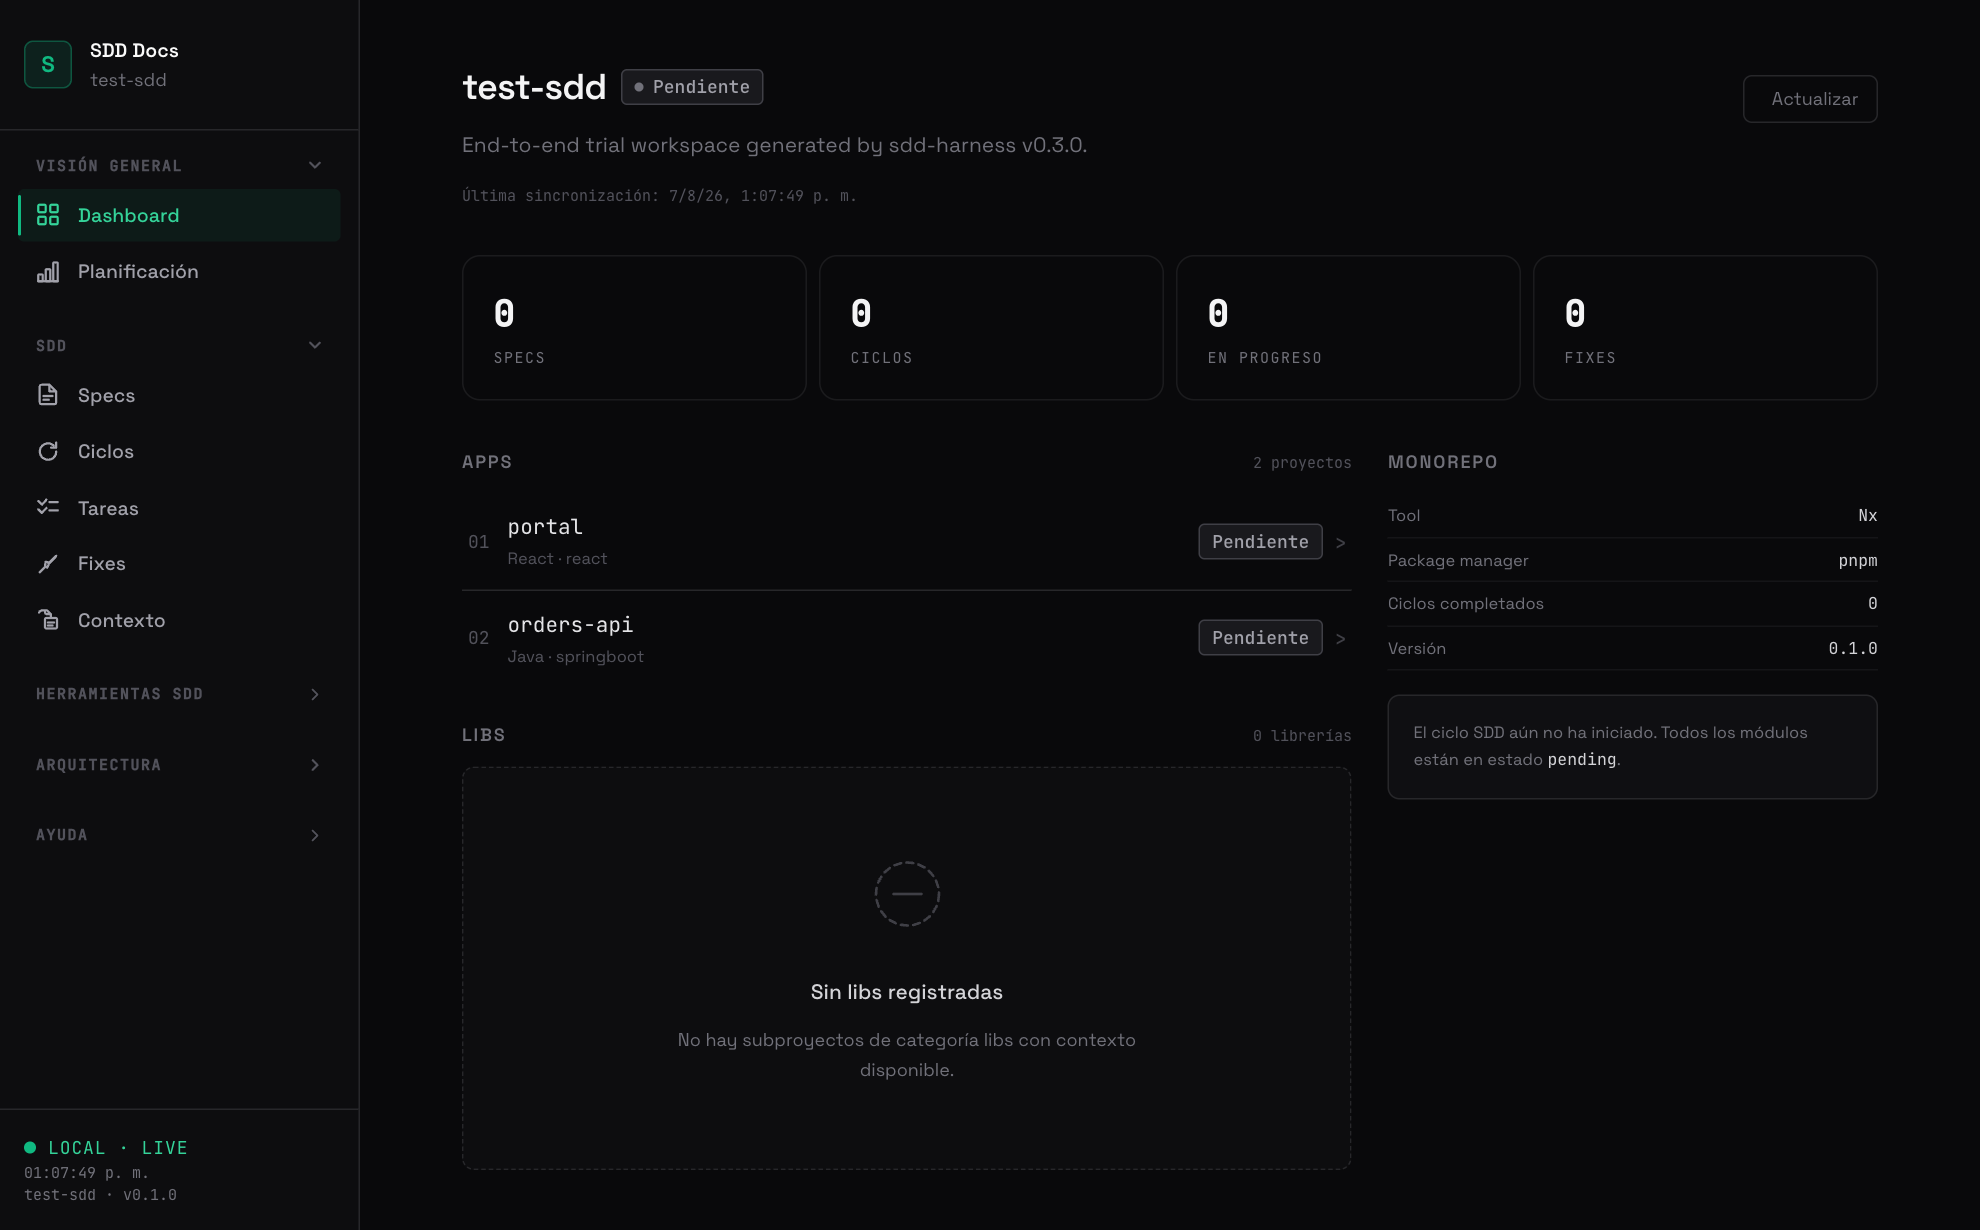
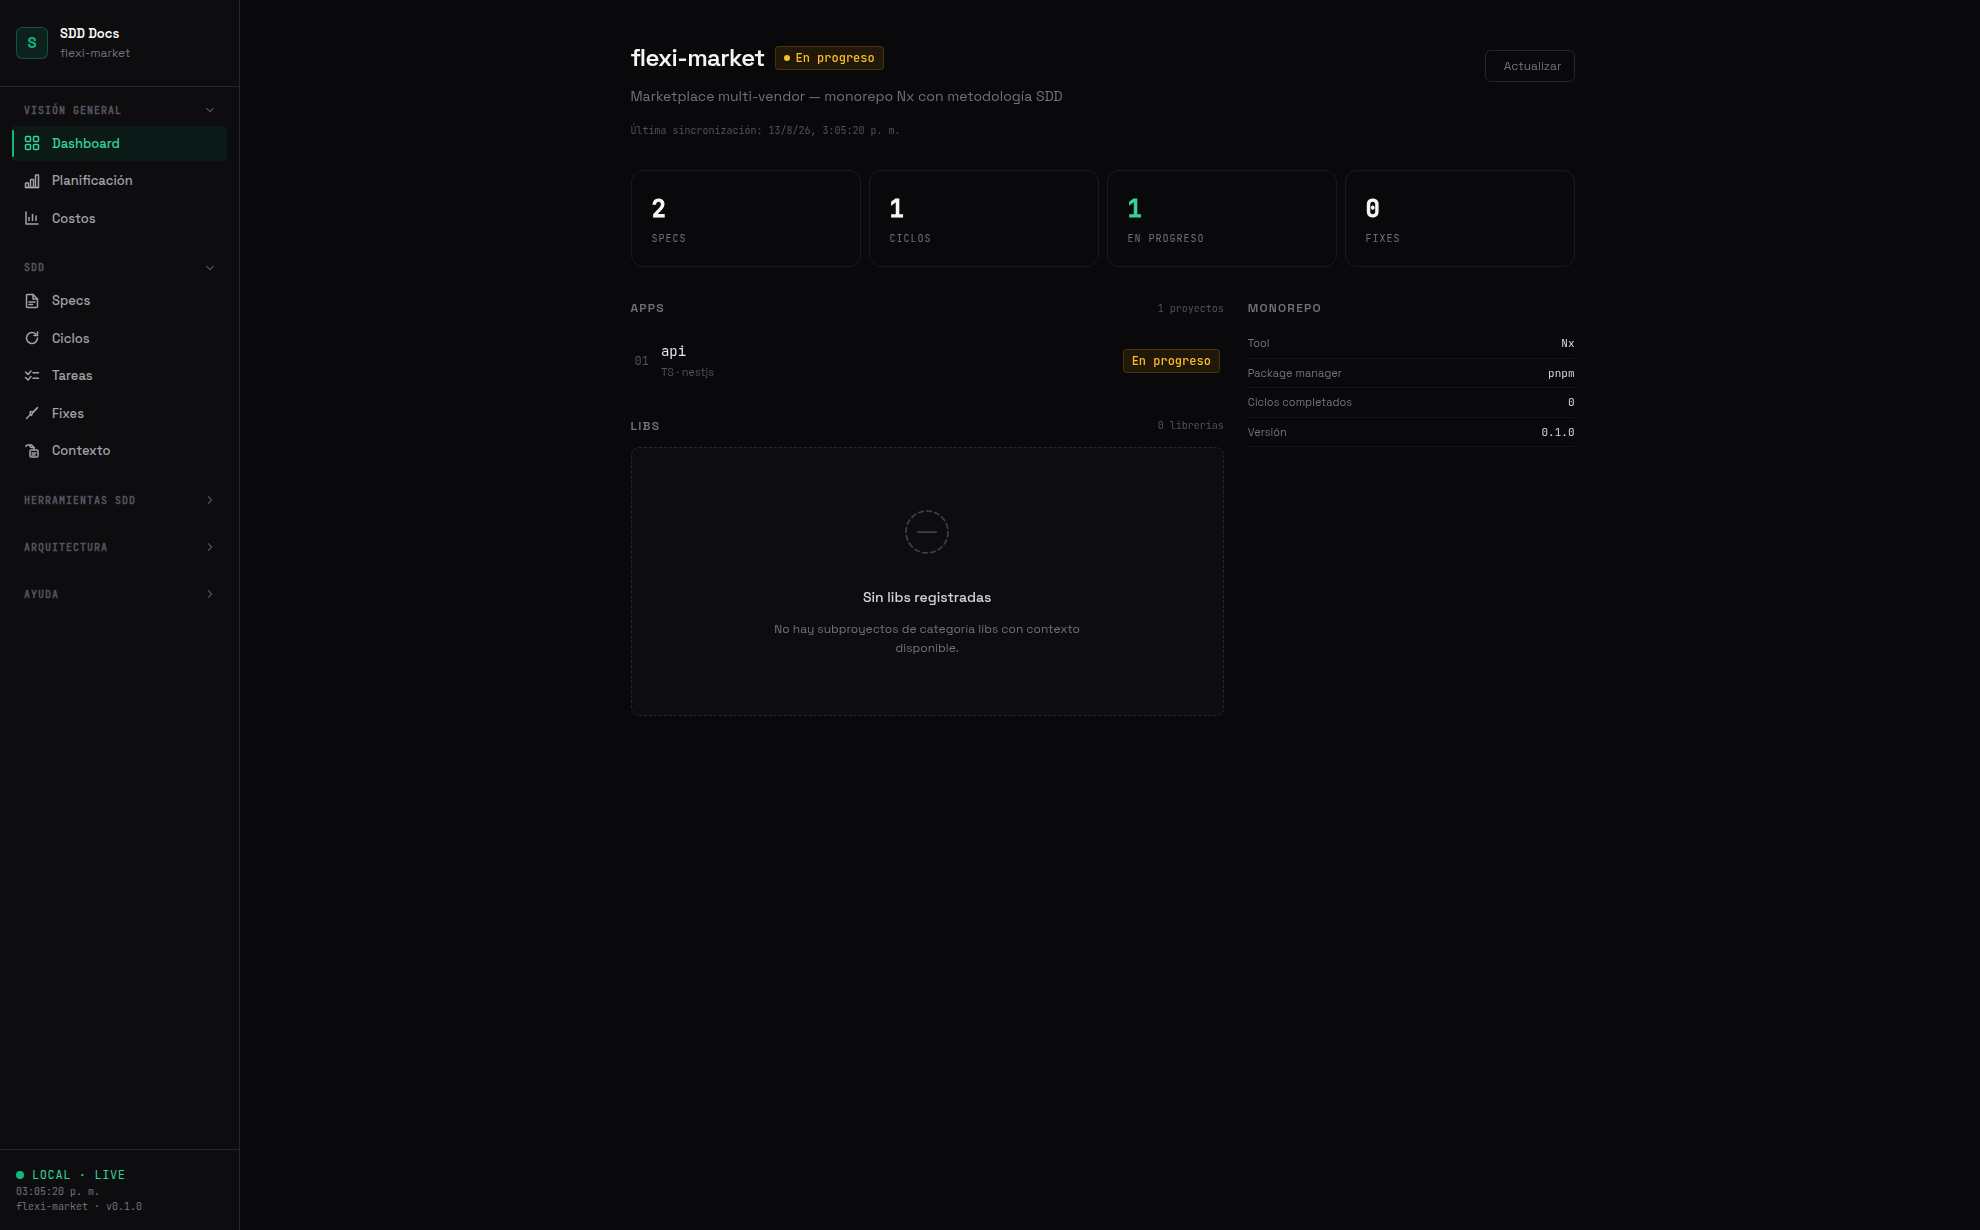
docs(site,kit): clear kit-update guide + refreshed viewer screenshots
- site: 'Actualizar el kit — sin miedo' panel in the portable-kit section
  (command + ownership semantics + *.new merge flow, as verified by the
  0.3.1→0.4.0 live rehearsal)
- kit INSTALL.md: update-first guide with the same ownership table; catalog
  counts refreshed (18 skills, memory/, pricing.json)
- sdd:docs gallery: all six screenshots recaptured from the current viewer
  (desktop layout, Costos in the nav, flexi-market demo data); Costos is the
  featured shot

Claude-Session: https://claude.ai/code/session_0115oC1kTPzAf1KABVkMgdX1

diff --git a/apps/documentation/src/App.tsx b/apps/documentation/src/App.tsx
@@ -793,7 +793,7 @@ function KitSection() {
             className="group mt-5 inline-flex items-center gap-2 text-[13.5px] text-zinc-300 transition-colors hover:text-accent-300"
           >
             Conocé <code className="text-accent-300">sdd:docs</code> a fondo —
-            capturas reales y las 15 vistas
+            capturas reales y las 16 vistas
             <ArrowRightIcon
               size={14}
               className="transition-transform group-hover:translate-x-0.5"
@@ -801,6 +801,61 @@ function KitSection() {
           </a>
         </div>
       </div>
+
+      <motion.div
+        initial={{ opacity: 0, y: 18 }}
+        whileInView={{ opacity: 1, y: 0 }}
+        viewport={{ once: true, margin: '-40px' }}
+        transition={{ type: 'spring', stiffness: 90, damping: 18 }}
+        className="mt-14 rounded-2xl border hairline bg-ink-900/50 p-6 md:p-8"
+      >
+        <p className="mb-2 font-mono text-[11px] uppercase tracking-[0.22em] text-accent-400">
+          Actualizar el kit — sin miedo
+        </p>
+        <h3 className="max-w-[40ch] text-xl font-medium tracking-tight text-zinc-100">
+          Un comando trae todo lo nuevo. Lo tuyo no se toca.
+        </h3>
+        <div className="mt-6 grid gap-8 md:grid-cols-[minmax(0,5fr)_minmax(0,6fr)]">
+          <div>
+            <CopyCommand command="npx @e-burgos/sdd-harness@latest update sdd" />
+            <p className="mt-4 max-w-[48ch] text-[13.5px] leading-relaxed text-zinc-400">
+              El update se gobierna por los hashes de{' '}
+              <code className="text-zinc-300">sdd/kit.json</code>: sabe
+              exactamente qué archivo es del kit, cuál es tuyo y cuál
+              modificaste. Al cierre regenera el catálogo, refresca los
+              symlinks y corre <code className="text-zinc-300">sdd:validate</code>.
+            </p>
+          </div>
+          <div className="divide-y divide-zinc-800/60 border-y hairline font-mono text-[12px]">
+            {[
+              {
+                k: 'Tus datos',
+                v: 'specs, ciclos, fixes, contextos, memoria — jamás se tocan',
+              },
+              {
+                k: 'Kit sin modificar',
+                v: 'se reemplaza por la versión nueva, silenciosamente',
+              },
+              {
+                k: 'Archivos nuevos',
+                v: 'se agregan solos (memoria, pricing, skills nuevas…)',
+              },
+              {
+                k: 'Lo que editaste',
+                v: 'queda intacto; la versión nueva aterriza al lado como *.new para fundir a mano',
+              },
+            ].map((row) => (
+              <div
+                key={row.k}
+                className="grid grid-cols-[130px_1fr] gap-4 py-3 sm:grid-cols-[170px_1fr]"
+              >
+                <span className="text-accent-300">{row.k}</span>
+                <span className="leading-relaxed text-zinc-400">{row.v}</span>
+              </div>
+            ))}
+          </div>
+        </div>
+      </motion.div>
     </Section>
   );
 }

diff --git a/apps/cli/templates/sdd/INSTALL.md b/apps/cli/templates/sdd/INSTALL.md
@@ -1,3 +1,28 @@
+# Instalación y actualización del framework SDD
+
+## Actualizar un kit ya instalado (lo más común)
+
+Si este repo ya tiene `sdd/` y salió una versión nueva del kit, **no hace falta nada
+de lo que sigue** — un solo comando actualiza preservando todo lo tuyo:
+
+```bash
+npx @e-burgos/sdd-harness@latest update sdd
+```
+
+Qué hace, gobernado por los hashes de `sdd/kit.json`:
+
+| Tipo de archivo | Qué pasa en el update |
+| --- | --- |
+| **Tus datos** — `global.json`, specs, ciclos, fixes, contextos, `memory/journal/` | **Jamás se tocan** |
+| Archivos del kit **sin modificar** localmente (skills, agentes, prompts, schemas, scripts, visor) | Se reemplazan por la versión nueva |
+| Archivos del kit **nuevos** en esta versión | Se agregan solos |
+| Archivos del kit que **vos editaste** (típico: `dual-harness/AGENTS.md`/`CLAUDE.md`) | Tu versión queda intacta; la nueva aterriza al lado como `*.new` para que fundas a mano lo que te interese |
+
+Al cierre regenera el catálogo, refresca los symlinks y corre `sdd:validate`. Si el
+update lista conflictos `*.new`, fundilos (o pedíselo a tu agente) y borrá los `.new`.
+
+---
+
 # Instalación del framework SDD en un repo nuevo
 
 Esta carpeta es una copia **limpia y portable** del sistema SDD: sin specs, fixes,
@@ -63,9 +88,11 @@ contra sus schemas.
 | Carpeta / archivo  | Contenido                                                                                       |
 | ------------------ | ----------------------------------------------------------------------------------------------- |
 | `agents/`          | Los 7 agentes del ciclo SDD                                                                     |
-| `skills/`          | 16 skills (ciclo SDD + generadores de código + scaffold-nx + setup-graphify)                    |
+| `skills/`          | 18 skills (ciclo SDD + sdd-hermes + generadores de código + scaffold-nx + setup-graphify)       |
 | `templates/`       | Scaffolding reproducible: nx-workspace, java-api, react-app, ts-lib — ver `templates/README.md` |
-| `prompts/`         | Prompts de gates (SPEC GATE, FIX GATE, inicio y cierre de ciclo)                                |
+| `prompts/`         | Prompts de gates (SPEC GATE, FIX GATE, inicio/cierre de ciclo, hermes-resume)                   |
+| `memory/`          | Memoria del proyecto: `lessons.md` destilado + `journal/` episódico (MEMORIA GATE)              |
+| `pricing.json`     | Tarifas editables del dashboard de Costos del visor                                             |
 | `schemas/`         | JSON Schemas estrictos de todos los registros                                                   |
 | `scripts/`         | validate, rebuild-tasks-index, rebuild-catalog, setup-agents                                    |
 | `docs/`            | Visor portable de documentación (JS vanilla, cero deps)                                         |
